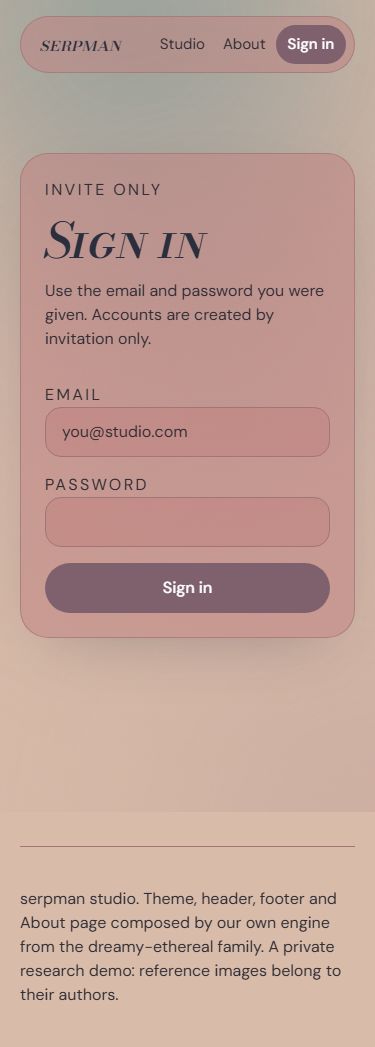
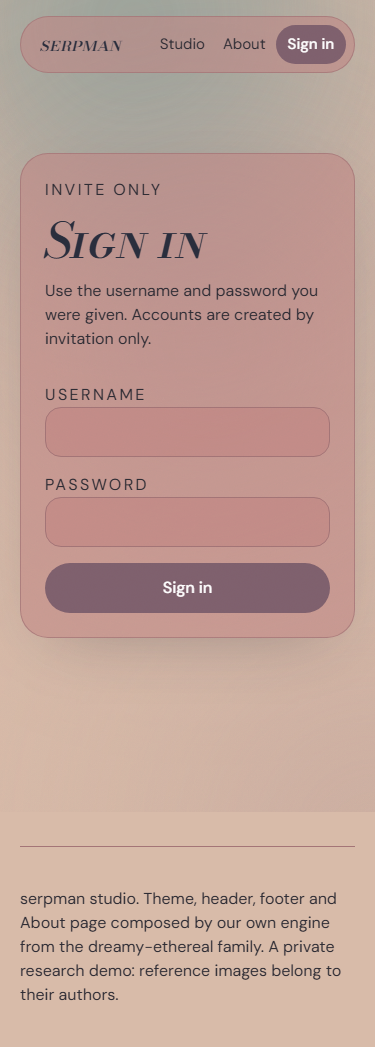
Updated to Username creation and verification

Changed region(s): [[0.1173, 0.2751, 0.8507, 0.3056], [0.1173, 0.3668, 0.4987, 0.4279]]

diff --git a/web/app/login/login-form.tsx b/web/app/login/login-form.tsx
@@ -1,25 +1,32 @@
 "use client";
 import { useRouter } from "next/navigation";
 import { useState } from "react";
+import { loginId, normalizeUsername } from "@/lib/auth/username";
 import { supabaseBrowser } from "@/lib/supabase/client";
 
-/** Email + password only: accounts are created by the admin and handed out; there is no sign-up here. */
+const WRONG = "Username or password is incorrect.";
+
+/** Username + password only: accounts are created by the admin and handed out; there is no sign-up here. */
 export function LoginForm({ next }: { next: string }) {
   const router = useRouter();
-  const [email, setEmail] = useState("");
+  const [username, setUsername] = useState("");
   const [password, setPassword] = useState("");
   const [busy, setBusy] = useState(false);
   const [error, setError] = useState<string | null>(null);
 
   async function submit(e: React.FormEvent) {
     e.preventDefault();
-    setBusy(true);
     setError(null);
-    const { error } = await supabaseBrowser().auth.signInWithPassword({ email: email.trim(), password });
+    const u = normalizeUsername(username);
+    if (!u) {
+      setError(WRONG); // same message as a wrong password: never reveal which usernames exist
+      return;
+    }
+    setBusy(true);
+    const { error } = await supabaseBrowser().auth.signInWithPassword({ email: loginId(u), password });
     if (error) {
       setBusy(false);
-      // one message for every failure: never reveal whether an email has an account
-      setError(error.status === 429 ? "Too many attempts. Wait a minute and try again." : "Email or password is incorrect.");
+      setError(error.status === 429 ? "Too many attempts. Wait a minute and try again." : WRONG);
       return;
     }
     router.replace(next);
@@ -29,17 +36,17 @@ export function LoginForm({ next }: { next: string }) {
   return (
     <form onSubmit={submit} className="mt-8 space-y-4">
       <div className="space-y-2">
-        <label htmlFor="email" className="eyebrow block" style={{ marginBottom: 0 }}>email</label>
+        <label htmlFor="username" className="eyebrow block" style={{ marginBottom: 0 }}>username</label>
         <input
-          id="email" type="email" required autoComplete="username" value={email} onChange={(e) => setEmail(e.target.value)}
-          className="w-full rounded-2xl border border-line bg-surface/60 px-4 py-3 text-ink placeholder:text-muted"
-          placeholder="you@studio.com"
+          id="username" name="username" type="text" required autoComplete="username" autoCapitalize="none"
+          spellCheck={false} maxLength={24} value={username} onChange={(e) => setUsername(e.target.value)}
+          className="w-full rounded-2xl border border-line bg-surface/60 px-4 py-3 text-ink"
         />
       </div>
       <div className="space-y-2">
         <label htmlFor="password" className="eyebrow block" style={{ marginBottom: 0 }}>password</label>
         <input
-          id="password" type="password" required autoComplete="current-password" value={password}
+          id="password" name="password" type="password" required autoComplete="current-password" value={password}
           onChange={(e) => setPassword(e.target.value)}
           className="w-full rounded-2xl border border-line bg-surface/60 px-4 py-3 text-ink"
         />

diff --git a/web/components/site-nav.tsx b/web/components/site-nav.tsx
@@ -1,13 +1,19 @@
 import Link from "next/link";
+import { usernameOf } from "@/lib/auth/username";
+import { supabaseConfigured } from "@/lib/supabase/config";
 import { supabaseServer } from "@/lib/supabase/server";
 
 export async function SiteNav() {
-  let email: string | null = null;
-  try {
-    const { data } = await (await supabaseServer()).auth.getUser();
-    email = data.user?.email ?? null;
-  } catch {
-    email = null;
+  let signedIn = false;
+  let username: string | null = null;
+  if (supabaseConfigured()) {
+    try {
+      const { data } = await (await supabaseServer()).auth.getUser();
+      signedIn = !!data.user;
+      username = usernameOf(data.user);
+    } catch {
+      signedIn = false;
+    }
   }
   const link = "whitespace-nowrap rounded-full px-2 py-2 hover:text-ink sm:px-3";
   return (
@@ -18,10 +24,11 @@ export async function SiteNav() {
         </Link>
         <ul className="flex items-center gap-0.5 text-[15px] text-muted sm:gap-2">
           <li><Link className={link} href="/">Studio</Link></li>
-          {email && <li><Link className={link} href="/sites">Sites</Link></li>}
+          {signedIn && <li><Link className={link} href="/sites">Sites</Link></li>}
           <li><Link className={link} href="/about">About</Link></li>
+          {signedIn && username && <li className="hidden px-2 text-ink md:block" title="signed in">{username}</li>}
           <li>
-            {email ? (
+            {signedIn ? (
               <form action="/auth/signout" method="post">
                 <button className="btn btn-ghost whitespace-nowrap px-3 py-2 sm:px-4" type="submit">Sign out</button>
               </form>

diff --git a/web/lib/auth/username.ts b/web/lib/auth/username.ts
@@ -1,0 +1,28 @@
+/**
+ * Username + password accounts on top of Supabase Auth.
+ *
+ * Supabase's password login needs an email-shaped identifier, so each username maps to a fixed placeholder login
+ * ID `<username>@<LOGIN_ID_DOMAIN>`. It is never shown, never emailed (accounts are created already confirmed and
+ * sign-ups are off) and is not a real mailbox. Keep the domain identical in tools/create_user.py (LOGIN_ID_DOMAIN).
+ */
+export const USERNAME_RE = /^[a-z0-9._-]{3,24}$/;
+export const LOGIN_ID_DOMAIN = process.env.NEXT_PUBLIC_LOGIN_ID_DOMAIN || "users.serpman.invalid";
+
+/** Trimmed, lower-cased username, or null when it can't be one (3-24 of a-z 0-9 . _ -). */
+export function normalizeUsername(raw: string): string | null {
+  const u = raw.trim().toLowerCase();
+  return USERNAME_RE.test(u) ? u : null;
+}
+
+export function loginId(username: string): string {
+  return `${username}@${LOGIN_ID_DOMAIN}`;
+}
+
+/** Display name for a signed-in user: the username from metadata, else the login ID's local part. */
+export function usernameOf(user: { user_metadata?: Record<string, unknown> | null; email?: string | null } | null): string | null {
+  if (!user) return null;
+  const meta = user.user_metadata?.username;
+  if (typeof meta === "string" && USERNAME_RE.test(meta)) return meta;
+  const local = (user.email ?? "").split("@")[0];
+  return USERNAME_RE.test(local) ? local : null;
+}

diff --git a/web/app/login/page.tsx b/web/app/login/page.tsx
@@ -21,7 +21,7 @@ export default async function LoginPage({ searchParams }: { searchParams: Promis
         <Display as="h1" step={6}>Sign in</Display>
         {configured ? (
           <>
-            <p className="mt-3 text-muted">Use the email and password you were given. Accounts are created by invitation only.</p>
+            <p className="mt-3 text-muted">Use the username and password you were given. Accounts are created by invitation only.</p>
             {error && <p role="alert" className="mt-4 rounded-2xl border border-line bg-surface px-4 py-3 text-ink">{error}</p>}
             <LoginForm next={next} />
           </>

diff --git a/tools/create_user.py b/tools/create_user.py
@@ -1,16 +1,20 @@
-"""create_user.py - create an invited account (email + password), the alternative to Supabase's "Add user" button.
+"""create_user.py - create an invited account: a USERNAME + password (no email anywhere in the app).
 
-    D:\\caches\\venvs\\uifp\\Scripts\\python.exe tools\\create_user.py --email someone@example.com [--quota 5]
+    D:\\caches\\venvs\\uifp\\Scripts\\python.exe tools\\create_user.py --username ana [--quota 5]
     ... --password "their-password"        # otherwise a strong one is generated and printed ONCE, here only
 
-Uses SUPABASE_URL + SUPABASE_SERVICE_ROLE_KEY from the environment or worker/.env (the same as the worker).
-The account is confirmed immediately; the on_auth_user_created trigger creates its profile (daily quota 5).
-Nothing is written to disk; hand the credentials to the person yourself.
+Usernames: 3-24 characters of a-z 0-9 . _ - (case-insensitive, stored lower-case, unique).
+Supabase Auth needs an email-shaped login ID, so the account is created as `<username>@<LOGIN_ID_DOMAIN>`: a
+placeholder that is never shown or emailed (the account is created confirmed; sign-ups stay off). The default
+domain must match web/lib/auth/username.ts (NEXT_PUBLIC_LOGIN_ID_DOMAIN on Vercel if you change it).
+Uses SUPABASE_URL + SUPABASE_SERVICE_ROLE_KEY (+ optional LOGIN_ID_DOMAIN) from the environment or worker/.env.
+Nothing is written to disk; hand the username and password to the person yourself.
 """
 from __future__ import annotations
 
 import argparse
 import os
+import re
 import secrets
 import string
 import sys
@@ -19,6 +23,7 @@ from pathlib import Path
 import httpx
 
 ROOT = Path(__file__).resolve().parents[1]
+USERNAME_RE = re.compile(r"^[a-z0-9._-]{3,24}$")
 
 
 def load_env() -> None:
@@ -41,33 +46,50 @@ def strong_password(n: int = 20) -> str:
 
 def main(argv=None) -> int:
     ap = argparse.ArgumentParser(description=__doc__, formatter_class=argparse.RawDescriptionHelpFormatter)
-    ap.add_argument("--email", required=True)
+    ap.add_argument("--username", required=True)
     ap.add_argument("--password", help="at least 10 characters; omit to generate one")
     ap.add_argument("--quota", type=int, help="sites per 24 h (profiles.daily_quota, default 5)")
     a = ap.parse_args(argv)
 
     load_env()
     url, key = os.getenv("SUPABASE_URL", "").rstrip("/"), os.getenv("SUPABASE_SERVICE_ROLE_KEY", "")
+    domain = os.getenv("LOGIN_ID_DOMAIN", "users.serpman.invalid")
     if not (url and key):
         print("set SUPABASE_URL and SUPABASE_SERVICE_ROLE_KEY (environment or worker/.env)", file=sys.stderr)
+        return 2
+    username = a.username.strip().lower()
+    if not USERNAME_RE.fullmatch(username):
+        print("username must be 3-24 characters of a-z 0-9 . _ -", file=sys.stderr)
         return 2
     password = a.password or strong_password()
     if len(password) < 10:
         print("password must be at least 10 characters", file=sys.stderr)
         return 2
+
     h = {"apikey": key, "Authorization": f"Bearer {key}"}
     r = httpx.post(f"{url}/auth/v1/admin/users", headers=h, timeout=30,
-                   json={"email": a.email.strip().lower(), "password": password, "email_confirm": True})
+                   json={"email": f"{username}@{domain}", "password": password, "email_confirm": True,
+                         "user_metadata": {"username": username}})
     if r.status_code >= 300:
-        print(f"could not create the account: {r.status_code} {r.text[:200]}", file=sys.stderr)
+        body = r.text[:300]
+        print(f"could not create '{username}': {r.status_code} {body}", file=sys.stderr)
+        if "already" in body.lower() or r.status_code == 422 and "registered" in body.lower():
+            print("that username is taken", file=sys.stderr)
+        elif "email" in body.lower() and "invalid" in body.lower():
+            print(f"Supabase rejected the placeholder domain '{domain}'. Set LOGIN_ID_DOMAIN in worker/.env to a domain "
+                  "you control (e.g. users.yourdomain.com) and the same value as NEXT_PUBLIC_LOGIN_ID_DOMAIN in "
+                  "Vercel, then redeploy.", file=sys.stderr)
         return 1
     uid = r.json()["id"]
+    patch = {"username": username}
     if a.quota is not None:
-        q = httpx.patch(f"{url}/rest/v1/profiles", params={"id": f"eq.{uid}"}, json={"daily_quota": a.quota},
-                        headers={**h, "Prefer": "return=minimal"}, timeout=30)
-        if q.status_code >= 300:
-            print(f"account created, but setting the quota failed: {q.status_code} {q.text[:200]}", file=sys.stderr)
-    print(f"created {a.email} (id {uid})" + (f", quota {a.quota}/day" if a.quota is not None else ""))
+        patch["daily_quota"] = a.quota
+    q = httpx.patch(f"{url}/rest/v1/profiles", params={"id": f"eq.{uid}"}, json=patch,
+                    headers={**h, "Prefer": "return=minimal"}, timeout=30)
+    if q.status_code >= 300:
+        print(f"account created, but updating its profile failed: {q.status_code} {q.text[:200]} "
+              "(run supabase/migrations/20261123000000_usernames.sql)", file=sys.stderr)
+    print(f"created username '{username}'" + (f", quota {a.quota}/day" if a.quota is not None else ""))
     if not a.password:
         print(f"password (shown once, not stored): {password}")
     return 0

diff --git a/README.md b/README.md
@@ -73,16 +73,20 @@ One engine run (pinned to `dreamy-ethereal`, without advancing the π cursor) wr
 
 Rebuild, and the whole app re-skins.
 
-## Accounts: invite by credentials only
-No self sign-up, no GitHub, no magic links. **You** create each account and hand out the email and password; users can only sign in.
-- **Dashboard:** Authentication → Users → **Add user → Create new user**. Enter email + password and tick **Auto Confirm User**.
-- **Or from the PC:** `D:\caches\venvs\uifp\Scripts\python.exe tools\create_user.py --email someone@example.com [--quota 5]`. Without `--password`, it prints a generated one **once**; nothing is stored.
-
-Each account gets a profile with a daily quota of 5 (change it in the `profiles` table or with `--quota`). Forgotten passwords are reset by you: in the dashboard, open the user and set a new password.
+## Accounts: username + password, invite only
+No email, no GitHub, no magic links, no sign-up. **You** create each account and hand out the **username and password**; users can only sign in.
+- **Create one from the PC:** `D:\caches\venvs\uifp\Scripts\python.exe tools\create_user.py --username ana [--quota 5]`. Without `--password`, it prints a generated one **once**; nothing is stored. Usernames are 3–24 characters of `a-z 0-9 . _ -`, case-insensitive and unique.
+- **How it works:** Supabase's password login needs an email-shaped ID, so each username maps internally to a placeholder `<username>@users.serpman.invalid`. It is never shown, never emailed and not a real mailbox, and the app only ever displays the username (`profiles.username`).
+  - If Supabase ever rejects that domain, set `LOGIN_ID_DOMAIN` in `worker/.env` and `NEXT_PUBLIC_LOGIN_ID_DOMAIN` in Vercel to the same domain you control.
+- **Dashboard alternative:** Authentication → Users → Add user, with ID `ana@users.serpman.invalid`, a password, and **Auto Confirm User** ticked. The username is taken from the part before `@`.
+- **Quotas and passwords:** each account gets a daily quota of 5 (`profiles.daily_quota`, or `--quota`). Forgotten passwords: open the user in the dashboard and set a new one.
 
 ## Finalize Supabase (once, in this order)
-1. **SQL editor:** run `supabase/migrations/20261120000000_init.sql`, then `20261121000000_site_mockups.sql`, then `20261122000000_engine_status.sql`.
-2. **Authentication → Sign In / Providers:** Email on; **"Allow new users to sign up" off**; GitHub and every other provider off.
+1. **SQL editor:** run `supabase/migrations/20261120000000_init.sql`, then `20261121000000_site_mockups.sql`, then `20261122000000_engine_status.sql`, then `20261123000000_usernames.sql`.
+2. **Authentication → Sign In / Providers:**
+   - Keep the **Email** provider **on**. It is the password mechanism behind usernames; no emails are ever sent.
+   - Turn **"Allow new users to sign up" off** and **"Confirm email" off**.
+   - Turn GitHub and every other provider off.
 3. **Authentication → URL Configuration:** Site URL `https://ai-web-designer-gamma.vercel.app`.
 4. Create the accounts (above).
 5. **Project Settings → API keys:** copy the **service_role** (secret) key into `worker/.env` on this PC. It is gitignored:
